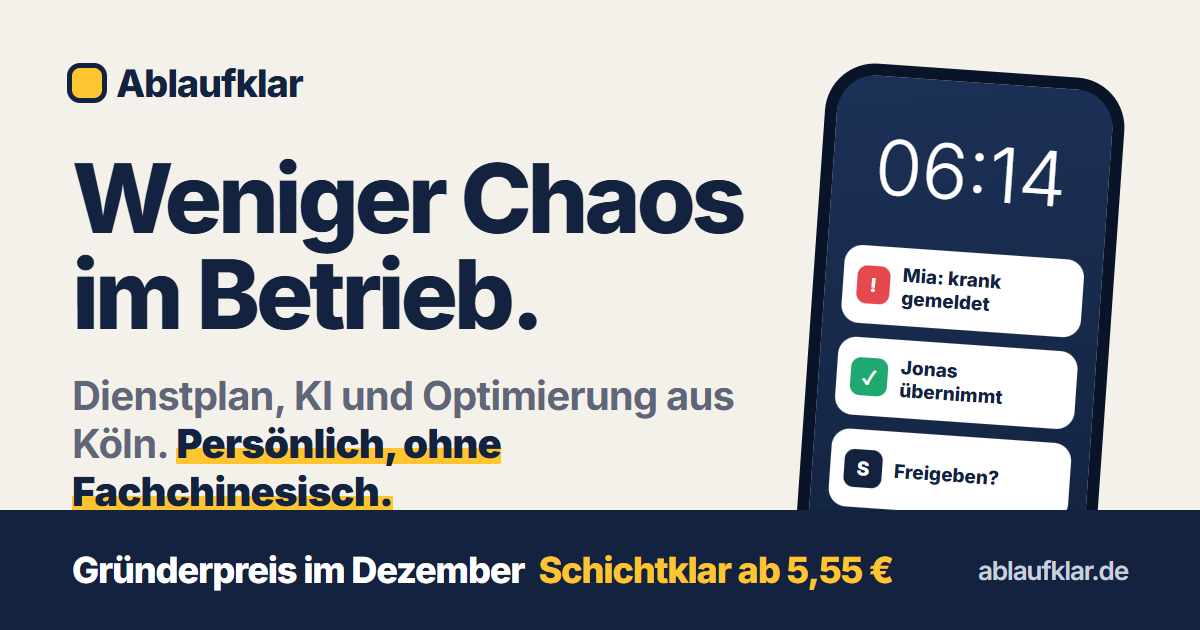
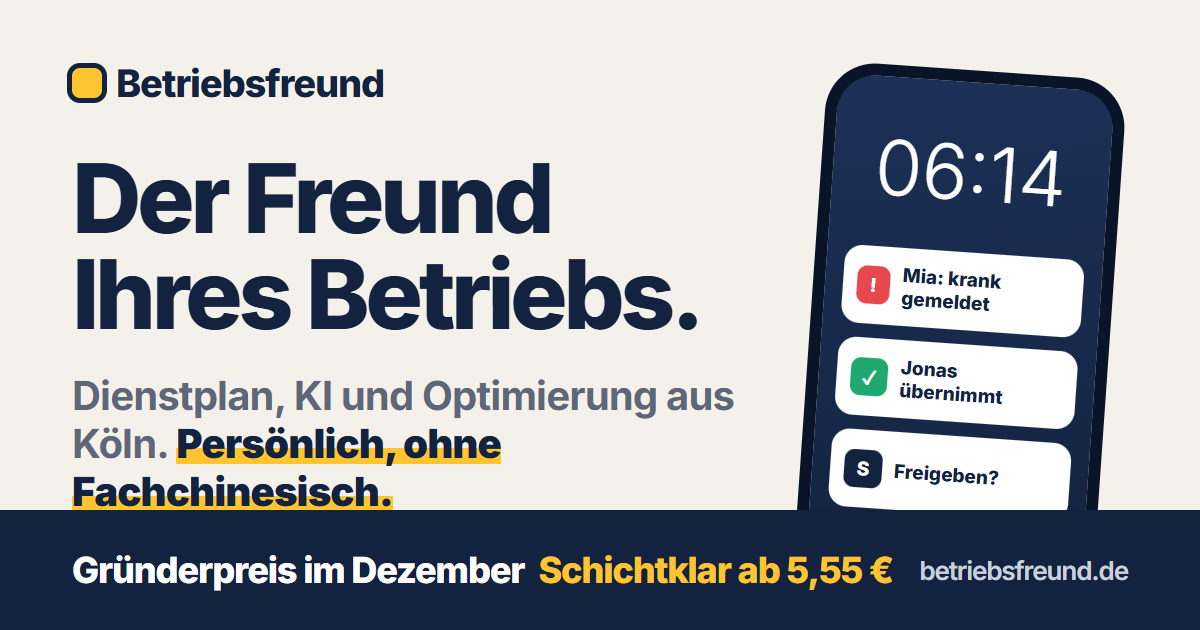
Marke umbenannt: Betriebsfreund (Schichtklar bleibt App-Name)

Changed region(s): [[0.0617, 0.2413, 0.6167, 0.5429], [0.0925, 0.0905, 0.3392, 0.1508], [0.7708, 0.8746, 0.925, 0.9349]]

diff --git a/src/config.ts b/src/config.ts
@@ -7,25 +7,25 @@
  * Stellen mit [ECKIGEN KLAMMERN] sind Platzhalter, die Sie selbst ausfüllen müssen.
  */
 
-/** MARKE (Dach): der Name der Firma/Website. "Abläufe klar" – passt zu Dienstplan, KI und Optimierung. */
+/** MARKE (Dach): der Name der Firma/Website. Der Freund des Betriebs: hilft bei Dienstplan, KI und Optimierung. */
 export const marke = {
-  name: "Ablaufklar",
-  slogan: "Weniger Chaos im Betrieb. Dienstplan, KI und Optimierung aus Köln.",
+  name: "Betriebsfreund",
+  slogan: "Der Freund Ihres Betriebs. Dienstplan, KI und Optimierung aus Köln.",
 };
 
 /** PRODUKT: die Dienstplan-App. Heißt weiter "Schichtklar" (steht so auf dem Flyer). */
 export const produkt = {
   name: "Schichtklar",
   /** Titel-Tag der Startseite */
-  titel: "Ablaufklar Köln | Dienstplan, KI und Optimierung für Betriebe",
+  titel: "Betriebsfreund Köln | Dienstplan, KI und Optimierung für Betriebe",
   /** Beschreibung für Google und Link-Vorschauen (max. 155 Zeichen) */
   beschreibung:
-    "Ablaufklar aus Köln: Dienstplan-App Schichtklar, KI im Alltag und einfachere Abläufe für Gastro, Handel und Dienstleister. Persönlich, verständlich.",
+    "Betriebsfreund aus Köln: Dienstplan-App Schichtklar, KI im Alltag und einfachere Abläufe für Gastro, Handel und Dienstleister. Persönlich, verständlich.",
 };
 
 export const seite = {
   /** Endgültige Adresse der Website (ohne Schrägstrich am Ende). Auch in astro.config.mjs anpassen! */
-  url: "https://ablaufklar.de",
+  url: "https://betriebsfreund.de",
   sprache: "de",
 };
 
@@ -35,8 +35,8 @@ export const kontakt = {
   telefon: "0221 123 456 78",
   /** WhatsApp-Nummer nur mit Ziffern, mit Ländervorwahl ohne + und ohne Null (49 = Deutschland) */
   whatsapp: "4922112345678",
-  whatsappText: "Hallo Daniel, ich interessiere mich für Ablaufklar.",
-  email: "kontakt@ablaufklar.de", // [BITTE AUSFÜLLEN] echte E-Mail-Adresse
+  whatsappText: "Hallo Daniel, ich interessiere mich für Betriebsfreund.",
+  email: "kontakt@betriebsfreund.de", // [BITTE AUSFÜLLEN] echte E-Mail-Adresse
   zeiten: "Mo–Fr, 9–16 Uhr",
   ort: "Köln",
   /** Vollständige Anschrift (für Impressum und Footer) – Platzhalter aus dem Flyer */
@@ -46,7 +46,7 @@ export const kontakt = {
 };
 
 /** Link zum Demo-Modus der App. Leer lassen, solange es ihn nicht gibt → Button führt dann zum Formular. */
-export const demoUrl = ""; // z. B. "https://app.ablaufklar.de" ([BITTE AUSFÜLLEN])
+export const demoUrl = ""; // z. B. "https://app.betriebsfreund.de" ([BITTE AUSFÜLLEN])
 
 export const preise = {
   /** Aktionspreis. Nach "bis" blendet sich das Angebot automatisch aus (echter Countdown, kein Neustart). */

diff --git a/tools/og.html b/tools/og.html
@@ -13,12 +13,12 @@ h1{position:absolute;left:72px;top:150px;margin:0;font-size:96px;font-weight:800
 .i{width:38px;height:38px;border-radius:10px;color:#fff;display:grid;place-items:center}
 .t{position:absolute;top:44px;left:0;right:0;text-align:center;color:#fff;font-size:76px;font-weight:300}
 </style></head><body>
-<div class="logo"><span class="q"></span>Ablaufklar</div>
-<h1>Weniger Chaos<br>im Betrieb.</h1>
+<div class="logo"><span class="q"></span>Betriebsfreund</div>
+<h1>Der Freund<br>Ihres Betriebs.</h1>
 <div class="s">Dienstplan, KI und Optimierung aus Köln. <b>Persönlich, ohne Fachchinesisch.</b></div>
 <div class="ph"><div class="t">06:14</div>
 <div class="n" style="top:170px"><span class="i" style="background:#E5484D">!</span>Mia: krank gemeldet</div>
 <div class="n" style="top:262px"><span class="i" style="background:#1FA971">✓</span>Jonas übernimmt</div>
 <div class="n" style="top:354px"><span class="i" style="background:#13233F">S</span>Freigeben?</div></div>
-<div class="bar">Gründerpreis im Dezember<span>Schichtklar ab 5,55 €</span><em>ablaufklar.de</em></div>
+<div class="bar">Gründerpreis im Dezember<span>Schichtklar ab 5,55 €</span><em>betriebsfreund.de</em></div>
 </body></html>

diff --git a/README.md b/README.md
@@ -39,7 +39,7 @@ npm run build      # fertige Seite im Ordner dist/
 
 ## Name und Marke
 
-- **Ablaufklar** ist die Dach-Marke (Dienstplan, KI, Optimierung). **Schichtklar** bleibt der Name der Dienstplan-App (steht so auf dem Flyer). Beides in `src/config.ts` (`marke`, `produkt`).
+- **Betriebsfreund** ist die Dach-Marke (Dienstplan, KI, Optimierung). **Schichtklar** bleibt der Name der Dienstplan-App (steht so auf dem Flyer). Beides in `src/config.ts` (`marke`, `produkt`).
 - Vorschaubild für WhatsApp/Google: `public/og.png`, erzeugt aus `tools/og.html` (mit Chrome: `chrome --headless --window-size=1200,630 --screenshot=public/og.png tools/og.html`).
 - Über-mich-Foto: Platzhalter in `src/components/About.astro`, Texte in [ECKIGEN KLAMMERN] selbst ausfüllen.
 - Kundenstimmen: `kundenstimmen` in `src/config.ts` füllen, dann erscheint der Bereich automatisch.
